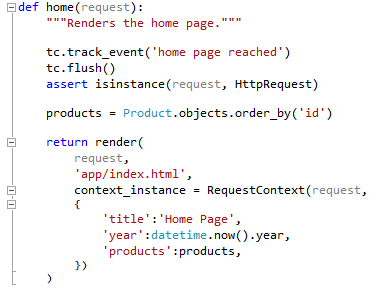
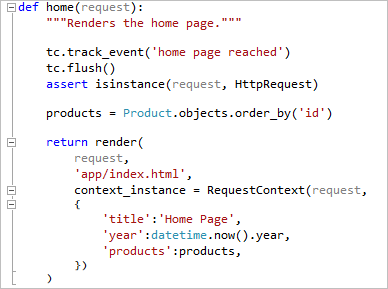
Fixes #607 No docs for Code Snippets Also adds border to outlining images.

Changed region(s): [[0.0, 0.0, 1.0, 1.0]]

diff --git a/Editor-Features.md b/Editor-Features.md
@@ -115,6 +115,20 @@ To customize the colors used, modify the Python entries in Tools -> Options -> E
 
 (To disable semantic colorization, disable Tools -> Options -> Text Editor -> Python -> Advanced -> Color names based on types.)
 
+### Code Snippets
+
+Code snippets are short pieces of code that can be inserted into your files by typing a shortcut and pressing Tab, or using the Insert Code Snippet or Surround With commands under Edit -> IntelliSense.
+For example, typing `class` followed by the Tab key will generate the rest of the class.
+You can type over the name and bases list, moving between the highlighted fields with Tab, then press Enter to begin typing the body.
+
+![Code Snippets](Images/CodeSnippets.png)
+
+Code snippets can be customized by [creating a code snippet](https://msdn.microsoft.com/en-us/library/ms165394.aspx) and importing it through the Code Snippets Manager.
+Find the manager under Tools -> Code Snippets Manager.
+If you write a great code snippet that you'd like to share, feel free to post it in a gist and [let us know](https://github.com/Microsoft/PTVS/issues) - we may be able to include it in the next update of PTVS.
+
+![Code Snippets Manager](Images/CodeSnippetsManager.png)
+
 Navigation
 ----------
 
@@ -170,7 +184,9 @@ When code is longer than a few lines, Python Tools gives you the ability to coll
 
 You can choose to hide some code from view by collapsing a region of code so that it appears under a plus sign (+). You expand a collapsed region by clicking the plus sign. (Or you can press CTRL + M + M to collapse a region and then CTRL+ M + M to expand it again.) You can also collapse an outlining region by double-clicking any line in the region on the outlining margin, which appears just to the left of the code. You can see the contents of a collapsed region as a tooltip when you hover over the collapsed region. 
 
-Regions in the outlining margin are also highlighted when you hover over the margin with the mouse. The default highlighting color may seem rather faint in some color configurations. You can change it in Tools/Options/Environment/Fonts and Colors/Collapsible Region.
+Regions in the outlining margin are also highlighted when you hover over the margin with the mouse. The default highlighting color may seem rather faint in some color configurations. You can change it in Tools, Options, Environment, Fonts and Colors, Collapsible Region.
+
+Arbitrary regions can be defined by putting `# region` and `# endregion` comments around a block of code.
 
 ![Outlining](Images/Outlining.png)
 ![OutliningCollapsed](Images/OutliningCollapsed.png)
